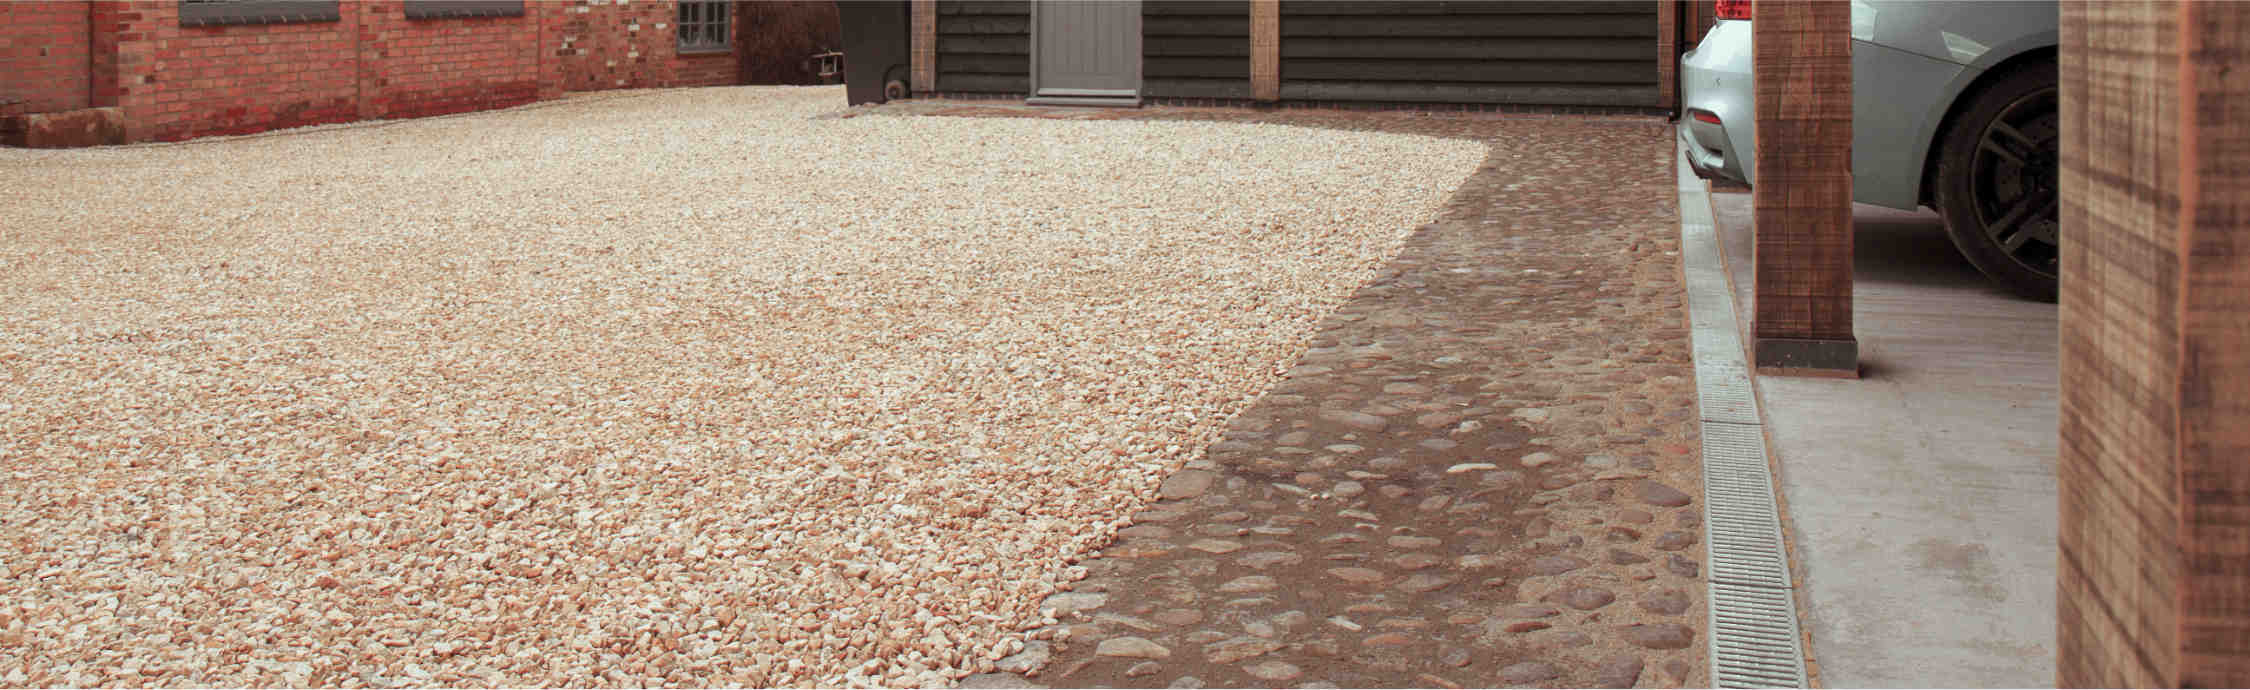
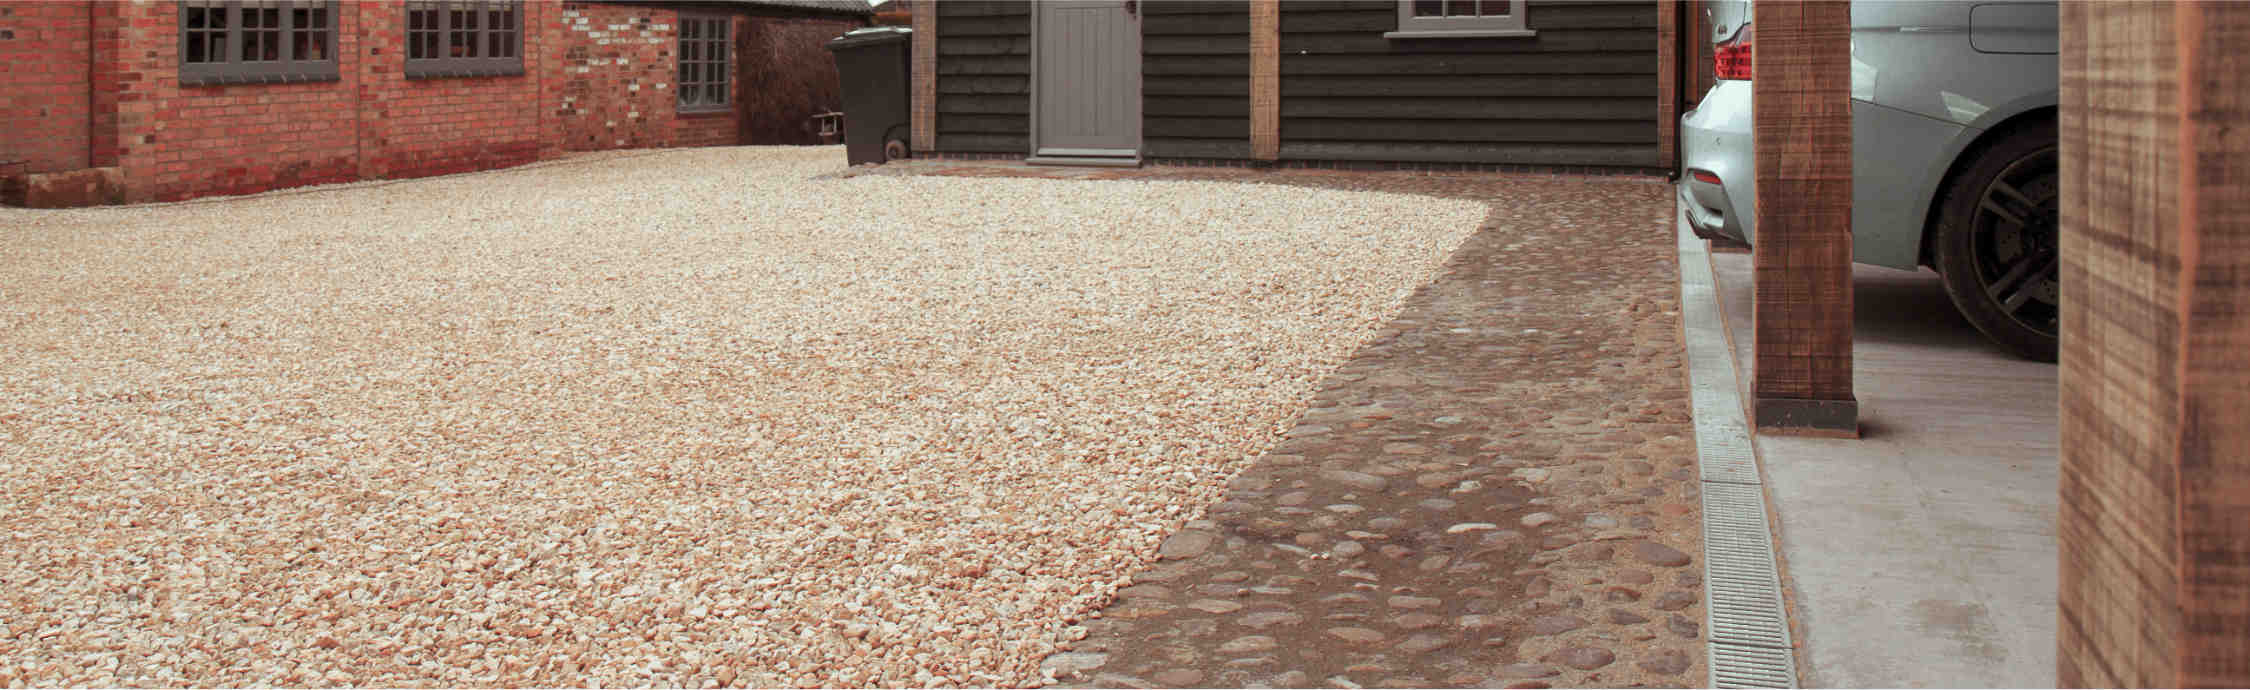
Hero image update

diff --git a/services/groundwork_flooring.html b/services/groundwork_flooring.html
@@ -1,4 +1,4 @@
-<html>
+ground_Small<html>
 
 <head>
     <title>Outdoor Flooring & Groundwork - Aardvark Landscapes</title>
@@ -29,19 +29,19 @@
     <style>
         @media only screen and (max-width: 579px) {
             #hero {
-                background-image: url(/images/hero/FencingHero_579x.jpg);
+                background-image: url(/images/hero/ground_Small.jpg);
             }
         }
 
         @media only screen and (max-width: 900px) {
             #hero {
-                background-image: url(/images/hero/FencingHero_900x.jpg);
+                background-image: url(/images/hero/ground_Medium.jpg);
             }
         }
 
         @media only screen and (min-width: 901px) {
             #hero {
-                background-image: url(/images/hero/FencingHero_2250x.jpg);
+                background-image: url(/images/hero/ground_Large.jpg);
             }
         }
     </style>

diff --git a/services/brickwork_stonework.html b/services/brickwork_stonework.html
@@ -29,19 +29,19 @@
     <style>
         @media only screen and (max-width: 579px) {
             #hero {
-                background-image: url(/images/hero/FencingHero_579x.jpg);
+                background-image: url(/images/hero/brickwork_Small.jpg);
             }
         }
 
         @media only screen and (max-width: 900px) {
             #hero {
-                background-image: url(/images/hero/FencingHero_900x.jpg);
+                background-image: url(/images/hero/brickwork_Medium.jpg);
             }
         }
 
         @media only screen and (min-width: 901px) {
             #hero {
-                background-image: url(/images/hero/FencingHero_2250x.jpg);
+                background-image: url(/images/hero/brickwork_Large.jpg);
             }
         }
     </style>

diff --git a/services/clearance_cleaning.html b/services/clearance_cleaning.html
@@ -29,19 +29,19 @@
     <style>
         @media only screen and (max-width: 579px) {
             #hero {
-                background-image: url(/images/hero/FencingHero_579x.jpg);
+                background-image: url(/images/hero/clearance_Small.jpg);
             }
         }
 
         @media only screen and (max-width: 900px) {
             #hero {
-                background-image: url(/images/hero/FencingHero_900x.jpg);
+                background-image: url(/images/hero/clearance_Medium.jpg);
             }
         }
 
         @media only screen and (min-width: 901px) {
             #hero {
-                background-image: url(/images/hero/FencingHero_2250x.jpg);
+                background-image: url(/images/hero/clearance_Large.jpg);
             }
         }
     </style>

diff --git a/services/fencing.html b/services/fencing.html
@@ -29,19 +29,19 @@
     <style>
         @media only screen and (max-width: 579px) {
             #hero {
-                background-image: url(/images/hero/FencingHero_579x.jpg);
+                background-image: url(/images/hero/fencing_Small.jpg);
             }
         }
 
         @media only screen and (max-width: 900px) {
             #hero {
-                background-image: url(/images/hero/FencingHero_900x.jpg);
+                background-image: url(/images/hero/fencing_Medium.jpg);
             }
         }
 
         @media only screen and (min-width: 901px) {
             #hero {
-                background-image: url(/images/hero/FencingHero_2250x.jpg);
+                background-image: url(/images/hero/fencing_Large.jpg);
             }
         }
     </style>

diff --git a/services/trees_bushes.html b/services/trees_bushes.html
@@ -29,19 +29,19 @@
     <style>
         @media only screen and (max-width: 579px) {
             #hero {
-                background-image: url(/images/hero/FencingHero_579x.jpg);
+                background-image: url(/images/hero/Trees_Small.jpg);
             }
         }
 
         @media only screen and (max-width: 900px) {
             #hero {
-                background-image: url(/images/hero/FencingHero_900x.jpg);
+                background-image: url(/images/hero/Trees_Medium.jpg);
             }
         }
 
         @media only screen and (min-width: 901px) {
             #hero {
-                background-image: url(/images/hero/FencingHero_2250x.jpg);
+                background-image: url(/images/hero/Trees_Large.jpg);
             }
         }
     </style>
